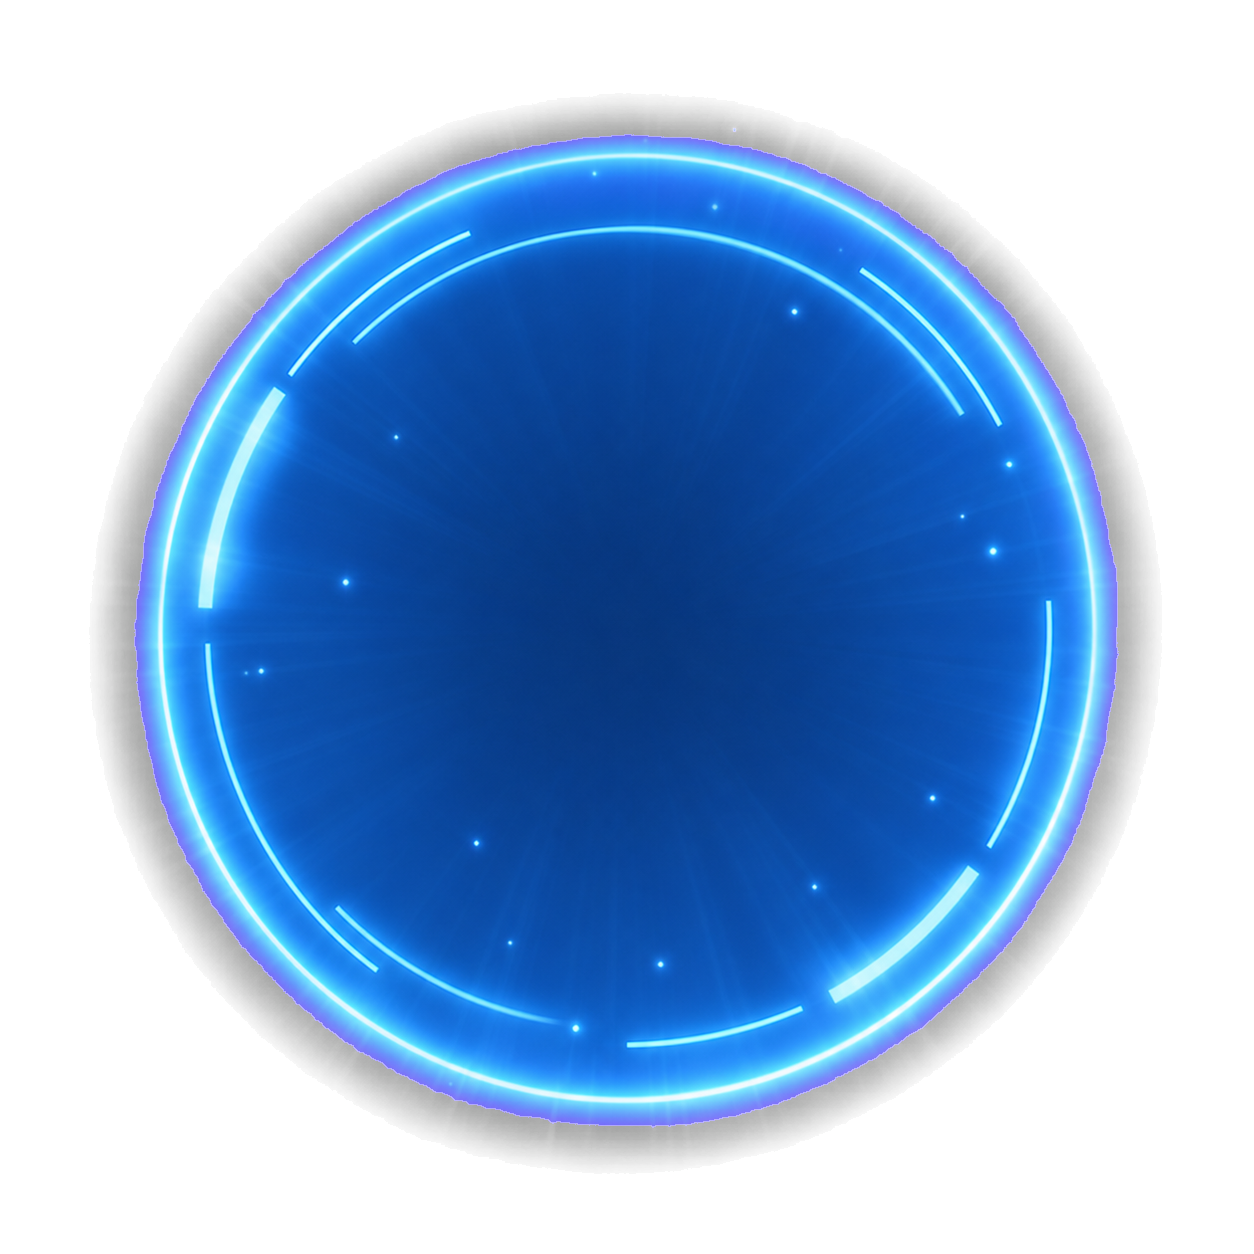
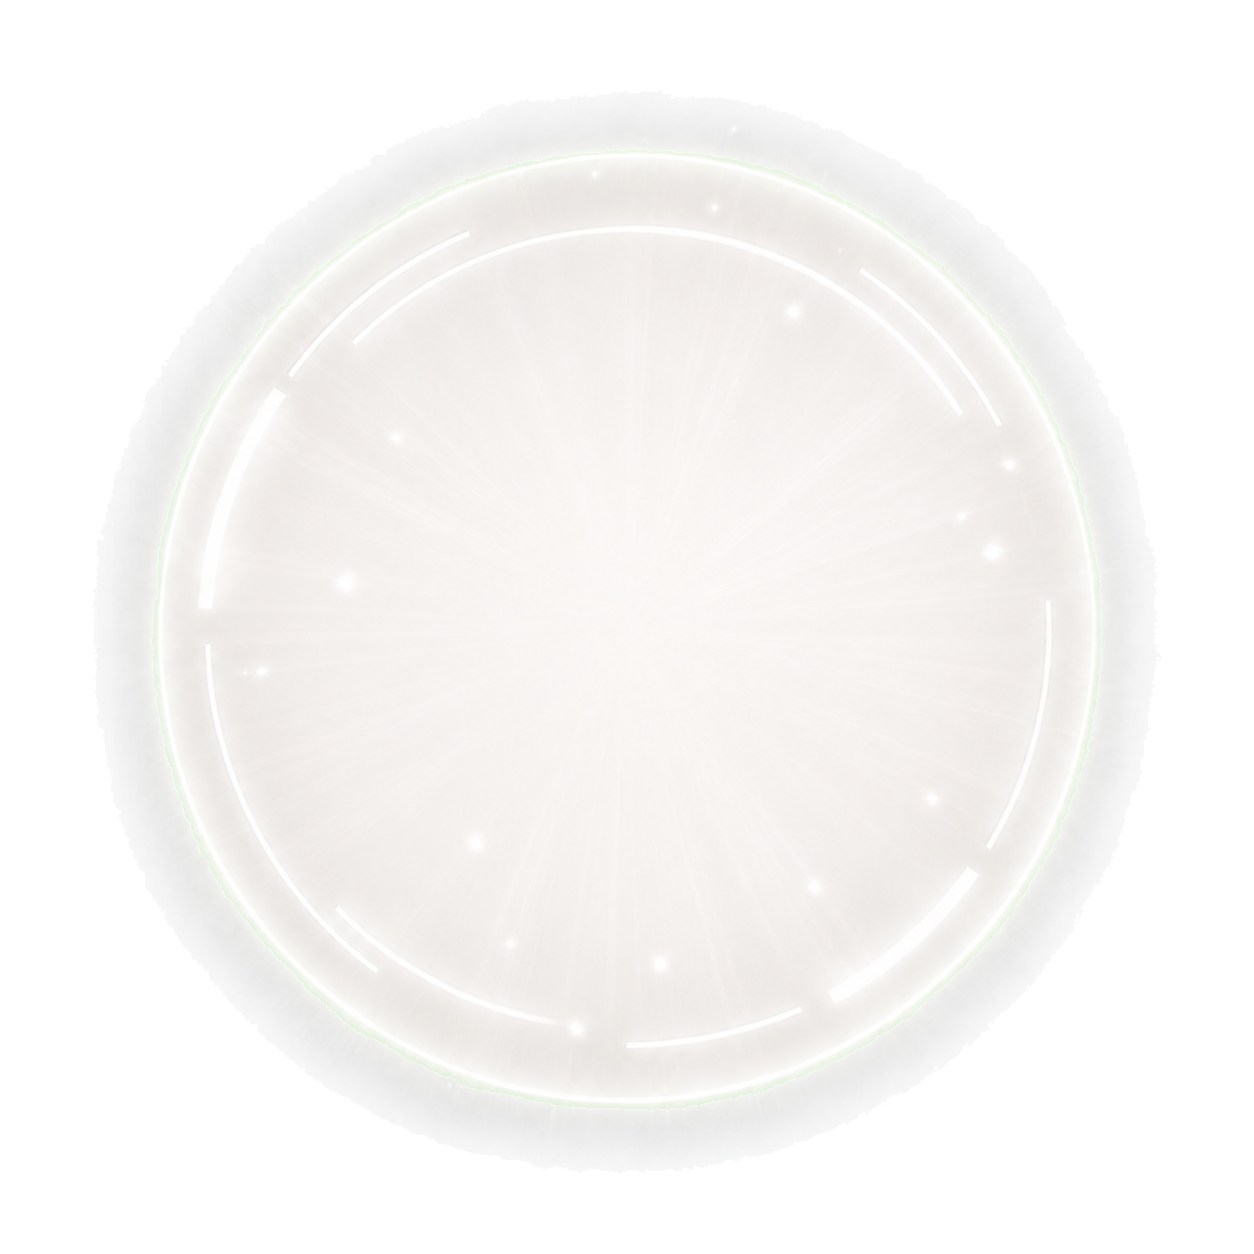
กไฟกฟ

diff --git a/Assets/CleaningSystem/Effects/StainMarkerBlueZone/StainMarkerBlueZone.cs b/Assets/CleaningSystem/Effects/StainMarkerBlueZone/StainMarkerBlueZone.cs
@@ -21,9 +21,9 @@ public sealed class StainMarkerBlueZone : MonoBehaviour
     [SerializeField, Range(0f, 0.2f)] private float innerScalePulse = 0.065f;
 
     [Header("Glow")]
-    [SerializeField, Range(0f, 1f)] private float outerMinimumAlpha = 0.52f;
-    [SerializeField, Range(0f, 1f)] private float innerMinimumAlpha = 0.16f;
-    [SerializeField, Range(0f, 2f)] private float lightPulseAmount = 0.28f;
+    [SerializeField, Range(0f, 1f)] private float outerMinimumAlpha = 0.10f;
+    [SerializeField, Range(0f, 1f)] private float innerMinimumAlpha = 0.02f;
+    [SerializeField, Range(0f, 2f)] private float lightPulseAmount = 0.02f;
 
     private Vector3 outerBaseScale;
     private Vector3 innerBaseScale;

diff --git a/Assets/dev_G/CleaningTarget.cs b/Assets/dev_G/CleaningTarget.cs
@@ -113,6 +113,10 @@ public class CleaningTarget : MonoBehaviour
 
     void HideDirtVisual()
     {
+        StainMarkerBlueZone[] stainMarkers = GetComponentsInChildren<StainMarkerBlueZone>(true);
+        for (int i = 0; i < stainMarkers.Length; i++)
+            stainMarkers[i].gameObject.SetActive(false);
+
         if (dirtObject == null)
             return;
 
